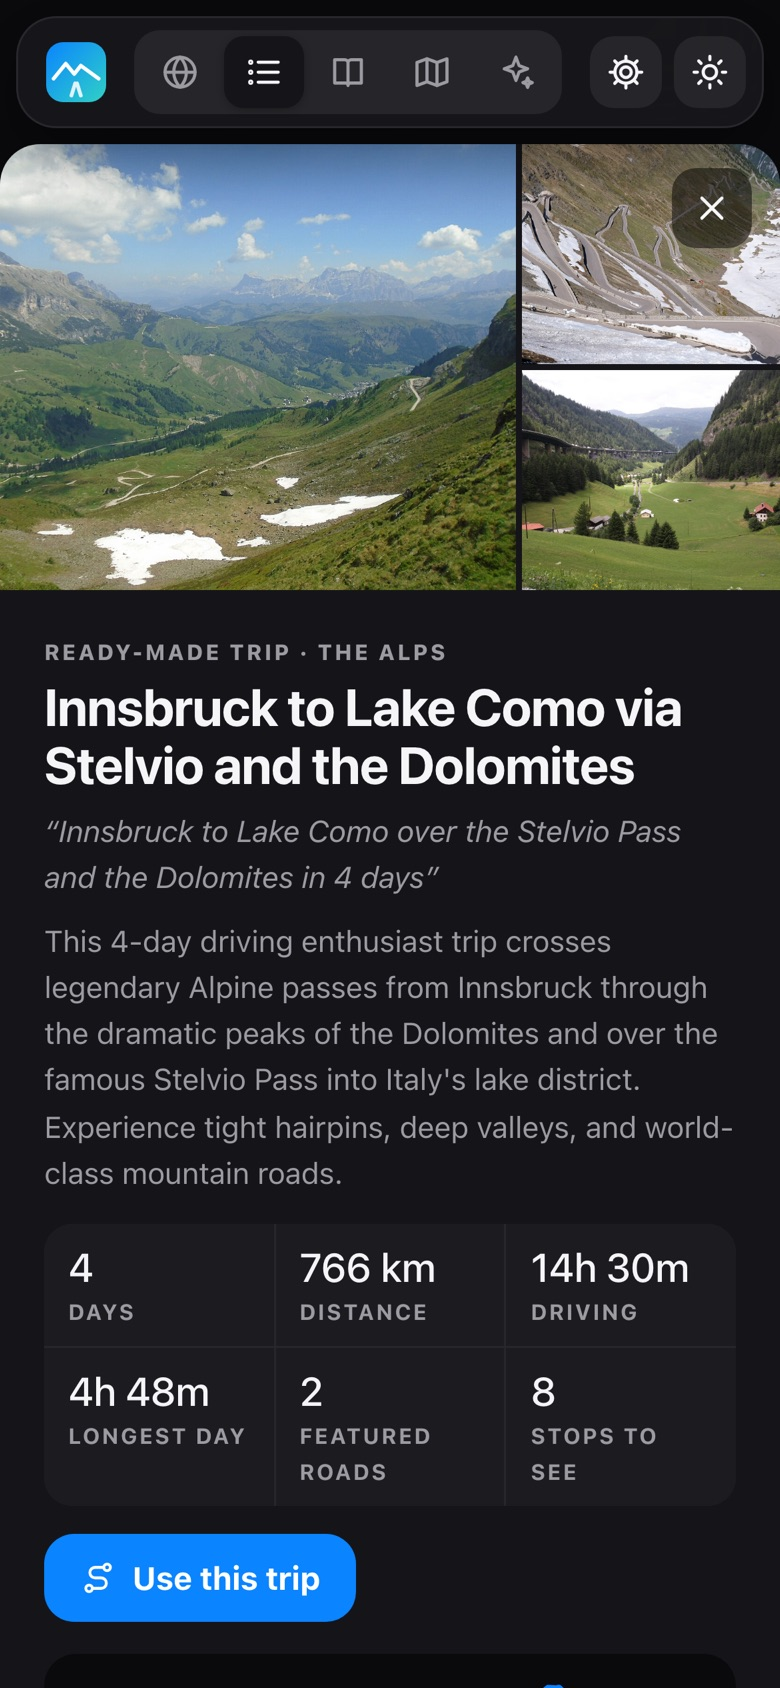
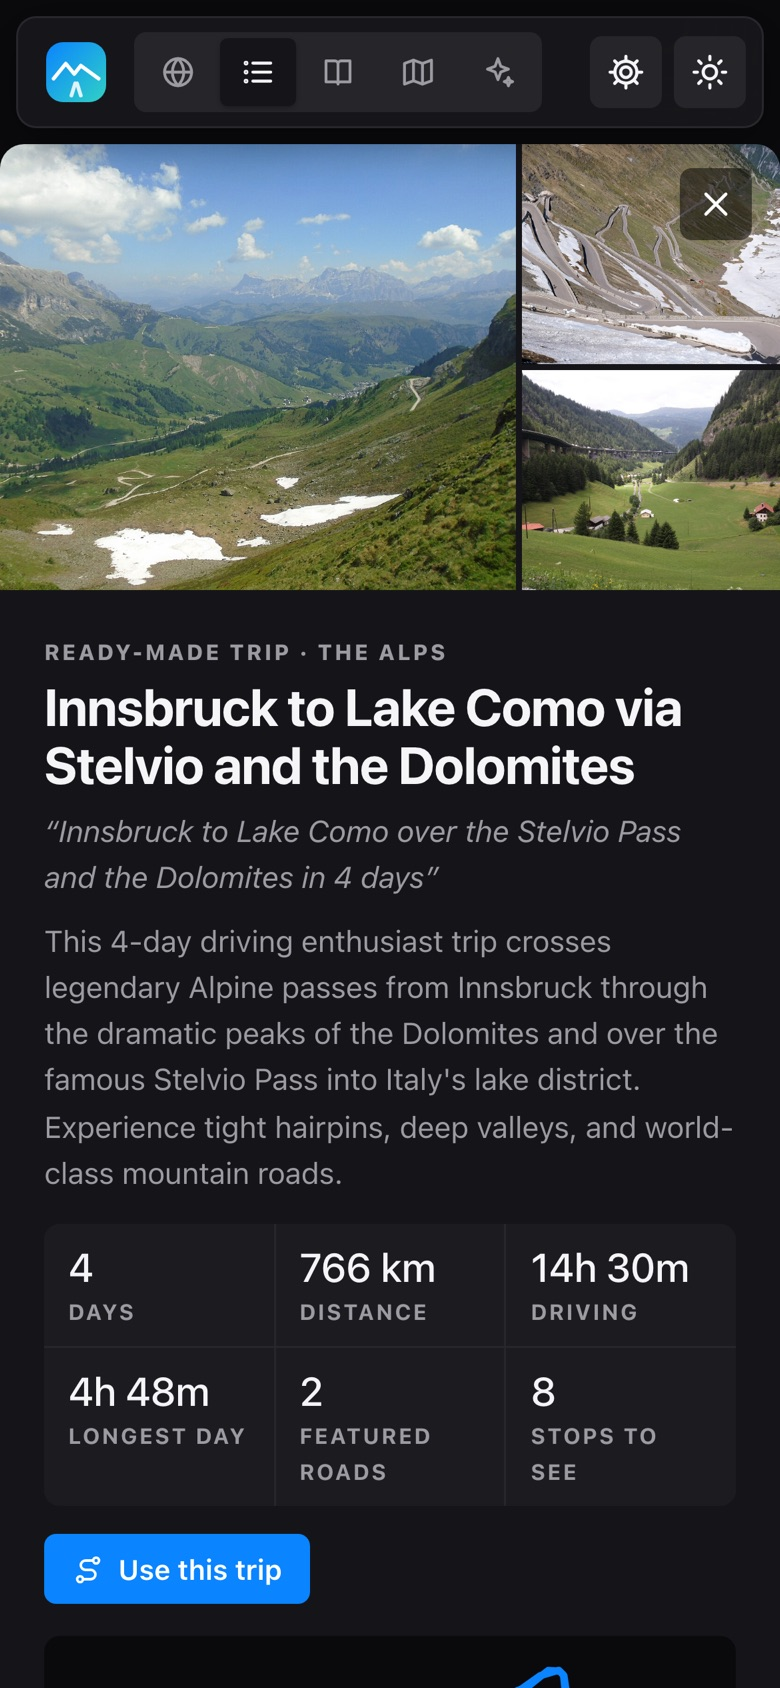
README: screenshots retaken for the new look, Roads near me shot, new features listed

diff --git a/README.md b/README.md
@@ -21,6 +21,8 @@ in Google Maps or Apple Maps for turn-by-turn directions. It runs on your own co
 | **Planning live**: the days fill in as the AI writes them. | **Other versions**, measured and compared before you switch. |
 | ![Asking a question about the trip](docs/screenshots/ask.jpg) | ![Today: the next stop, tonight's arrival and roads ahead](docs/screenshots/today.jpg) |
 | **Ask your trip**, answered from its own days and places. | **Today**: what's next while you're on the road. |
+| ![Great roads near Denver with weekend loops to plan](docs/screenshots/near.jpg) | ![How it works](docs/screenshots/about.jpg) |
+| **Roads near me**: the byways and famous drives within a few hours, and weekend loops in one tap. | **How it works**, a short tour in the app. |
 
 <p align="center">
   <img src="docs/screenshots/phone-trips.jpg" width="280" alt="A ready-made trip's preview on a phone">
@@ -54,7 +56,8 @@ top bar and only works on the computer running the app. Keep the start window op
   day you want, a loop, no night driving, an electric car. Or open one of the 35 ready-made trips instantly. The plan
   fills in on screen as the AI writes it, and the app checks it (days, overnights, featured roads on the route) and
   sends problems back once.
-- **Every day**: driving time and distance, weather, sunset, a timeline with the roads and stops, an elevation profile,
+- **Every day**: driving time and distance, weather, sunset, a timeline with the roads and stops, a drive chart (climbs,
+  featured roads and the clock along the day, linked to the timeline),
   seasonal closures, ferries, tolls and gravel, featured road cards with curve and climb ratings, stops with photos,
   fuel and charger gaps, and places to stay and eat at the overnight with booking searches for that night.
 - **Change it in plain words**: "skip Winnipeg", "add a night in Banff". Changes apply in place with Undo. Fix long
@@ -64,6 +67,11 @@ top bar and only works on the computer running the app. Keep the start window op
 - **Other versions**: easier, more scenic or another way, measured and compared side by side.
 - **Edit on the map**: drag a stop, pull the route through a town, right-click or long-press to add a place.
 - **Today**: on the road, what's next, the next fuel or charger, roads and stops ahead, and arrival against sunset.
+- **Send to your phone**: a QR code per day opens it in Google Maps or Apple Maps; long days go in parts so every
+  scenic via point makes it.
+- **Trip cost**: fuel or charging per day and lodging per night, in the trip's own units and currency.
+- **Roads near me**: the scenic byways and famous drives within a few hours of home, with weekend loops to plan.
+- **What drivers say**: on each featured road, a short summary of what drivers write about it (with a web search key).
 - **Trips**: your trips and the ready-made ones in one tab, with search, region and length filters, and a preview of
   every day, the route and the roads before you open one.
 - **Export and share**: GPX, print or PDF, a web page, or a read-only link for devices on the same network.
